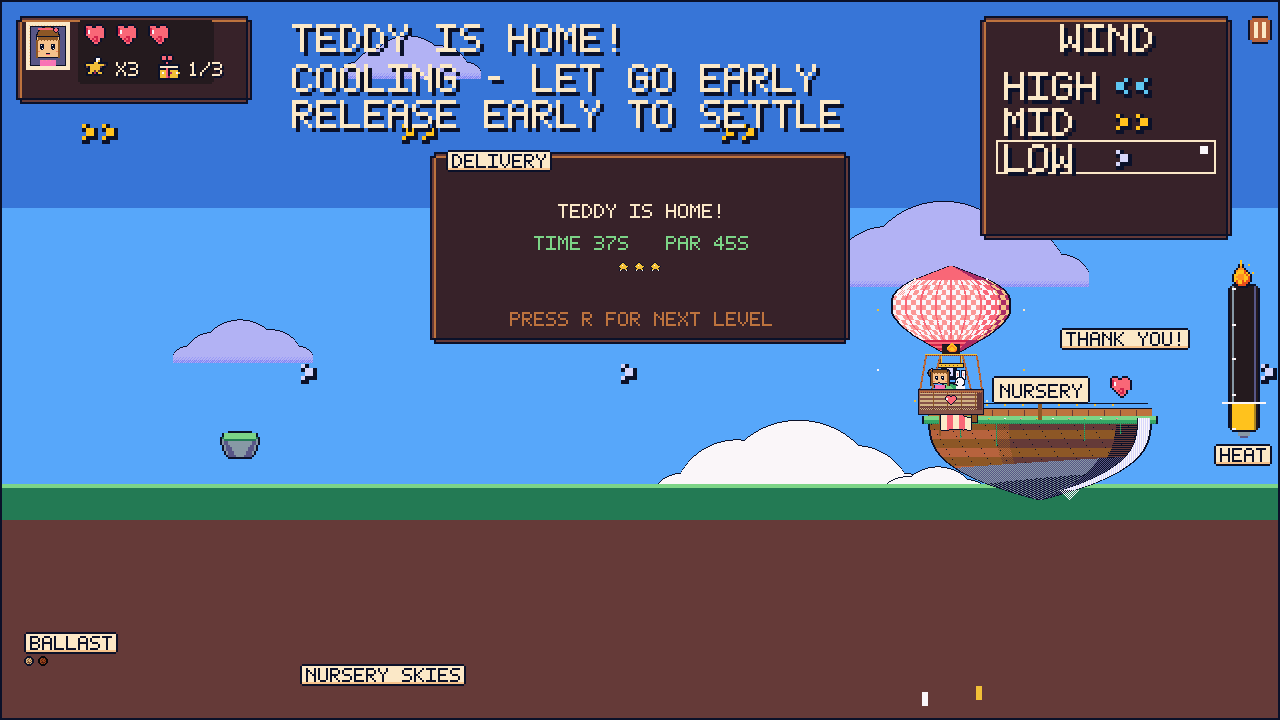
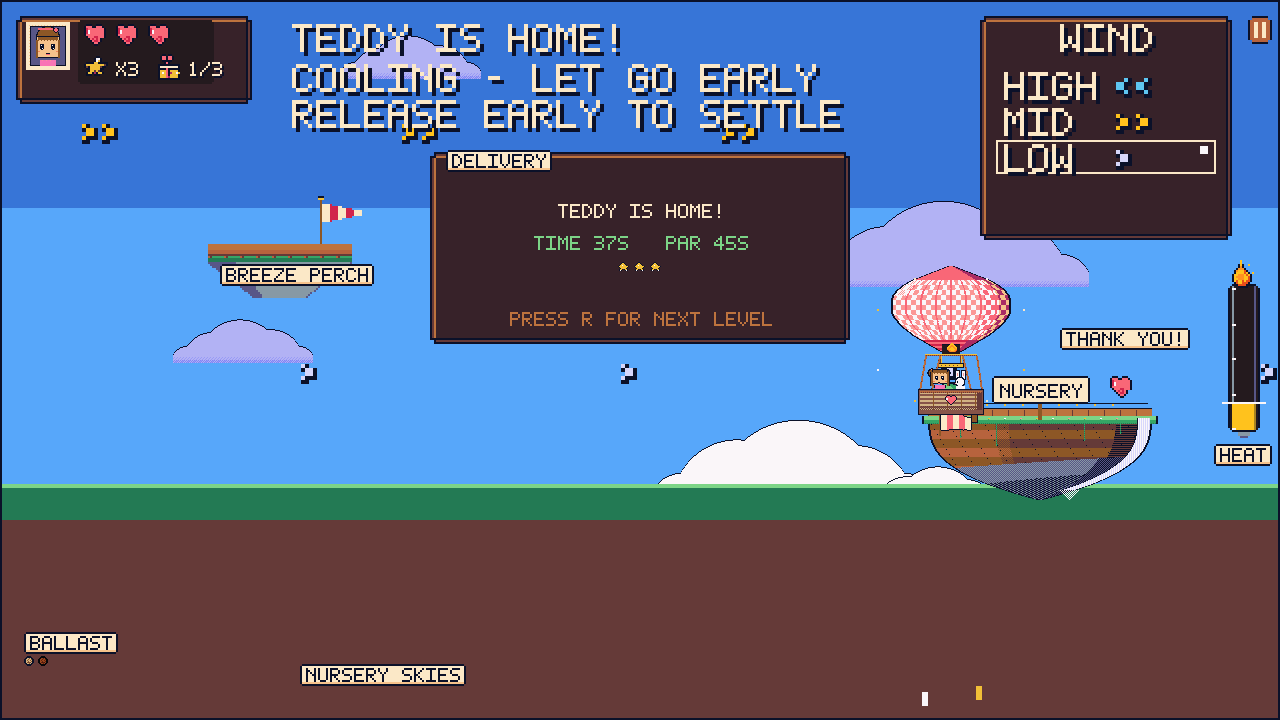
feat(nursery): teach wind with a perch and prove active-hazard routes
Initiative: 20 (Nursery tutorial route)

Verified: npm run check; 73 unit tests, 88 Playwright tests. Reviewed docs/screenshots/20-nursery-perch-*.png and 20-nursery-home-*.png. Recorded legal inputs replay to identical hashes with normal collisions on all three courses; nursery retains three hearts. Human feel report remains tracked under I17.

Changed region(s): [[0.1562, 0.3361, 0.3125, 0.4278], [0.1562, 0.5806, 0.2188, 0.6417], [0.25, 0.275, 0.2812, 0.3056]]

diff --git a/tests/tutorial.spec.js b/tests/tutorial.spec.js
@@ -1,0 +1,15 @@
+const {test,expect}=require('@playwright/test');
+const path=require('path');
+const {bootGame,act,reviewShot,SHOTS_DIR,watchForErrors}=require('./support');
+test('Nursery Skies teaches with a wind perch and is delivered with active hazards',async({page},info)=>{
+ const errors=watchForErrors(page);await bootGame(page);await act(page,'settings=motion=1');await act(page,'reset=6060');
+ expect((await page.evaluate(()=>window.__GAME.state())).platforms).toBe(1);
+ await act(page,'step=1');await page.evaluate(()=>window.__GAME.raw('warp','185=170'));
+ await act(page,'screen=world');await expect.poll(()=>act(page,'screen')).toBe('world');
+ await reviewShot(page,{path:path.join(SHOTS_DIR,`20-nursery-perch-${info.project.name}.png`)});
+ await act(page,'reset=6060');
+ expect(await page.evaluate(()=>window.__GAME.raw('fly','120'))).toBe('ok:delivered');
+ const state=await page.evaluate(()=>window.__GAME.state());expect(state.delivered).toBe(true);expect(state.hearts).toBe(3);expect(state.cargoStatus).toBe('delivered');
+ await act(page,'screen=world');await expect.poll(()=>act(page,'screen')).toBe('world');
+ await reviewShot(page,{path:path.join(SHOTS_DIR,`20-nursery-home-${info.project.name}.png`)});expect(errors).toEqual([]);
+});

diff --git a/Balloonatic/Balloonatic.Core/Autopilot.cs b/Balloonatic/Balloonatic.Core/Autopilot.cs
@@ -108,7 +108,7 @@ namespace Balloonatic.Core
         /// the soft-landing rule, and arriving soft is the point — one bag stays aboard, because a
         /// lighter balloon has a gentler final descent. Every loadout remains landable.
         /// </summary>
-        public static bool Deliver(SimState state, LevelDef level, float maxSeconds)
+        public static bool Deliver(SimState state, LevelDef level, float maxSeconds, bool hazards = false, Action<SimInput>? record = null)
         {
             float cruise = BandCenter(CarryingBand(level));
             float lowest = Math.Max(BandCenter(level.Bands[0]), SimTuning.DeckTopAltitude + LowestFloor);
@@ -127,7 +127,7 @@ namespace Balloonatic.Core
             {
                 if (decideIn <= 0)
                 {
-                    chosen = BestIdea(state, level, ideas);
+                    chosen = BestIdea(state, level, ideas, hazards);
                     decideIn = ReplanSeconds * Sim.StepHz;
                 }
                 decideIn--;
@@ -144,7 +144,8 @@ namespace Balloonatic.Core
                     braked = true;
                 }
 
-                SimRules.Step(state, input, level, hazards: false);   // the ghost proves the wind line
+                record?.Invoke(input);
+                SimRules.Step(state, input, level, hazards);
                 if (state.Delivered)
                     return true;
             }
@@ -158,7 +159,7 @@ namespace Balloonatic.Core
         /// everything else; nothing here reads anything but state and level, so the chosen flight path
         /// is reproducible to the step.
         /// </summary>
-        static float BestIdea(SimState state, LevelDef level, float[] ideas)
+        static float BestIdea(SimState state, LevelDef level, float[] ideas, bool hazards)
         {
             float bestScore = float.MinValue;
             float bestAlt = ideas[0];
@@ -167,8 +168,9 @@ namespace Balloonatic.Core
             {
                 SimState sim = state.Clone();
                 for (int k = 0; k < horizon && !sim.Delivered; k++)
-                    SimRules.Step(sim, TowardAltitude(sim, alt), level, hazards: false);
-                float score = ScoreLanding(sim, level);
+                    SimRules.Step(sim, TowardAltitude(sim, alt), level, hazards);
+                float score = ScoreLanding(sim, level) - (state.Hearts - sim.Hearts) * 2000f;
+                if (sim.Complete && !sim.Delivered) score -= 20000f;
                 if (score > bestScore)
                 {
                     bestScore = score;

diff --git a/Balloonatic/Balloonatic.Core/Level.cs b/Balloonatic/Balloonatic.Core/Level.cs
@@ -3,6 +3,7 @@ using System.Globalization;
 
 namespace Balloonatic.Core
 {
+    public readonly record struct RestDeck(float X, float Altitude, float HalfWidth);
     /// <summary>
     /// One altitude band of wind: the only steering the player has. Bands are authored per level, so a
     /// level's puzzle is "which heights carry me where".
@@ -209,14 +210,16 @@ namespace Balloonatic.Core
         public string CarryObjective { get; }
         public string DeliveredMessage { get; }
         public string RequestLabel { get; }
+        public RestDeck[] Platforms { get; }
 
         public LevelDef(string id, string name, float worldHeight, WindBand[] bands, GustZone[] gusts, float courseLength, int parSeconds,
-                        RockDef[]? rocks = null, BirdDef[]? birds = null, StormZone[]? storms = null, CargoKind package = CargoKind.Teddy)
+                        RockDef[]? rocks = null, BirdDef[]? birds = null, StormZone[]? storms = null, CargoKind package = CargoKind.Teddy, RestDeck[]? platforms = null)
         {
             Id = id;
             Name = name;
             NameUpper = name.ToUpperInvariant();
             Package = package;
+            Platforms = platforms ?? Array.Empty<RestDeck>();
             PackageName = package == CargoKind.Bottle ? "BOTTLE" : package == CargoKind.Letter ? "LETTER" : "TEDDY";
             DestinationName = id == "nursery-skies" ? "NURSERY" : id == "winding-trail" ? "TOY ROOM" : "COTTAGE";
             CollectObjective = "COLLECT THE " + PackageName;
@@ -335,8 +338,8 @@ namespace Balloonatic.Core
                 {
                     new RockDef(300f, 320f, 8f, 240, 0),
                     new RockDef(540f, 340f, 8f, 300, 90),
-                    new RockDef(200f, 20f, 4f, 240, 40),
-                }),
+                    new RockDef(200f, 345f, 4f, 240, 40),
+                }, platforms: new[] { new RestDeck(220f, 120f, 36f) }),
 
             // Toy Isles, a zigzag: the middle air sprints, the upper air rebukes you, and the low air —
             // the air a landing is made from — carries gently home. The bird works the mid sprint and

diff --git a/Balloonatic/Balloonatic.Core/TestHarness.cs b/Balloonatic/Balloonatic.Core/TestHarness.cs
@@ -202,12 +202,13 @@ namespace Balloonatic.Core
                 }
 
                 case "deliver":
+                case "fly":
                 {
                     int seconds = 120;
                     if (a.Length > 0 && (!int.TryParse(a, NumberStyles.Integer, CultureInfo.InvariantCulture, out seconds) || seconds < 1))
                         return "error:bad-arg:deliver";
                     seconds = Math.Min(seconds, 300);
-                    bool delivered = Autopilot.Deliver(_state, LevelCatalog.Get(_state.LevelId), seconds);
+                    bool delivered = Autopilot.Deliver(_state, LevelCatalog.Get(_state.LevelId), seconds, hazards: name == "fly");
                     return delivered ? "ok:delivered" : "error:not-delivered";
                 }
 
@@ -416,6 +417,7 @@ namespace Balloonatic.Core
               .Append("\"cargoStatus\":\"").Append(_state.CargoStatus).Append("\",")
               .Append("\"pickupTick\":").Append(_state.PickupTick).Append(',')
               .Append("\"recipient\":\"").Append(level.DestinationName).Append("\",")
+              .Append("\"platforms\":").Append(level.Platforms.Length).Append(',')
               .Append("\"windAssist\":").Append(_state.WindAssist ? "true" : "false").Append(',')
               .Append("\"settings\":\"").Append(AppSettings.Describe()).Append("\",")
               .Append("\"hash\":\"").Append(SimRules.HashHex(_state)).Append('"')

diff --git a/Balloonatic/Balloonatic.Tests/TutorialTests.cs b/Balloonatic/Balloonatic.Tests/TutorialTests.cs
@@ -1,0 +1,30 @@
+using System.Collections.Generic;
+using Balloonatic.Core;
+using FluentAssertions;
+using Xunit;
+namespace Balloonatic.Tests;
+public class TutorialTests
+{
+    [Theory]
+    [InlineData("nursery-skies")][InlineData("winding-trail")][InlineData("night-crossing")]
+    public void A_recorded_legal_flight_replays_with_normal_collisions(string id)
+    {
+        LevelDef level=LevelCatalog.Get(id);
+        SimState flown=new(){Seed=0x6060,LevelId=id};
+        SimState replay=flown.Clone();
+        List<SimInput> inputs=new();
+        Autopilot.Deliver(flown,level,120,hazards:true,record:inputs.Add).Should().BeTrue(id);
+        foreach(SimInput input in inputs)SimRules.Step(replay,input,level);
+        replay.Delivered.Should().BeTrue();replay.Hearts.Should().BeGreaterThan(0);
+        SimRules.HashHex(replay).Should().Be(SimRules.HashHex(flown));
+        if(id=="nursery-skies")replay.Hearts.Should().Be(3,"the teaching route should be safe");
+    }
+
+    [Fact]
+    public void The_breeze_perch_supports_a_soft_landing_without_completing_delivery()
+    {
+        SimState s=new(){Seed=1234,X=220,Altitude=124,VelocityY=-10,Cargo=CargoKind.Teddy};
+        for(int i=0;i<30;i++)SimRules.Step(s,SimInput.None);
+        s.Altitude.Should().Be(120);s.Complete.Should().BeFalse();s.Cargo.Should().Be(CargoKind.Teddy);
+    }
+}

diff --git a/Balloonatic/Balloonatic.Game/Screens/WorldScreen.cs b/Balloonatic/Balloonatic.Game/Screens/WorldScreen.cs
@@ -311,6 +311,15 @@ namespace Balloonatic.Screens
 
             DrawIsland(canvas, level, state, camX, groundY, worldX: 0, name: "HOME", launch: true);
             DrawIsland(canvas, level, state, camX, groundY, worldX: (int)level.CourseLength, name: level.DestinationName, launch: false);
+            foreach (RestDeck deck in level.Platforms)
+            {
+                float x = ScreenX(deck.X, camX), y = ScreenY(deck.Altitude, camAlt);
+                Kit.Island(canvas, x - deck.HalfWidth, y + 4, (int)deck.HalfWidth * 2, 24);
+                Kit.Platform(canvas, new Rectangle(Round(x - deck.HalfWidth), Round(y), (int)deck.HalfWidth * 2, 5));
+                WindBand wind = level.BandAt(deck.Altitude + 1f);
+                Kit.Windsock(canvas, x + 20, y, wind.Direction, wind.Strength);
+                Kit.Tag(canvas, Round(x)-30, Round(y)+10, "BREEZE PERCH");
+            }
         }
 
         static void DrawIsland(

diff --git a/Balloonatic/Balloonatic.Core/SimState.cs b/Balloonatic/Balloonatic.Core/SimState.cs
@@ -282,6 +282,20 @@ namespace Balloonatic.Core
                 }
             }
 
+            foreach (RestDeck deck in level.Platforms)
+            {
+                if (state.VelocityY >= 0f || prevAltitude < deck.Altitude || state.Altitude > deck.Altitude
+                    || Math.Abs(state.X - deck.X) > deck.HalfWidth) continue;
+                state.Altitude = deck.Altitude;
+                if (-state.VelocityY <= SimTuning.SoftLandingVy) state.VelocityY = 0f;
+                else
+                {
+                    state.VelocityY = -state.VelocityY * SimTuning.BounceRestitution;
+                    state.Bounces++; state.BounceTick = state.Tick;
+                }
+                break;
+            }
+
             if (state.Altitude <= SimTuning.GroundAltitude)
             {
                 // On the ground the balloon sits: descending into the ground stops it, and the landing

diff --git a/Balloonatic/Balloonatic.Tests/WindLayerTests.cs b/Balloonatic/Balloonatic.Tests/WindLayerTests.cs
@@ -17,7 +17,7 @@ namespace Balloonatic.Tests
         static void HoldAt(TestHarness h, LevelDef level, float target, int steps)
         {
             for (int i = 0; i < steps; i++)
-                SimRules.Step(h.State, Autopilot.TowardAltitude(h.State, target), level);
+                SimRules.Step(h.State, Autopilot.TowardAltitude(h.State, target), level, hazards: false);
         }
 
         [Fact]
@@ -46,6 +46,7 @@ namespace Balloonatic.Tests
 
             HoldAt(h, level, 190f, 300);     // drift out with the middle band
             float drifting = F(h, "velocityX");
+            h.State.X = 400f; // isolate band reversal from the off-course recovery boundary
 
             HoldAt(h, level, 330f, 1020);    // climb into the top band, - direction (the hold is gentle)
 

diff --git a/docs/BASELINE.md b/docs/BASELINE.md
@@ -315,3 +315,14 @@ Steven flew the desktop head and reported three things; each became a rule, not 
   transferred payload **3.13 MB over 76 requests** (audio kit included, budget 8 MB); average rAF
   frame time in live heated play **16.67 ms** with p95 16.80 ms — a steady 60 fps in the Chromium
   tab. `tests/budget.spec.js` logs the first two and asserts all three every suite run.
+
+## Current recovery and route contracts (I17–I20, October 17)
+
+Every ballast loadout now cools into a landable descent (gravity 84, each bag 8, landing limit 24 px/s).
+Travel beyond a course margin returns the craft to a safe approach without spending health or restoring
+bags. Cargo goes from waiting to carried to delivered and is consumed only at the matching recipient.
+`state()` mirrors cargo, pickup tick, recipient, recovery count, wind band, heat trend and approach.
+`raw('fly', '120')` flies with normal rock/bird/storm collisions. `deliver()` retains the original
+wind-only diagnostic. Core tests record actual heat/ballast inputs and replay them with normal
+collisions, requiring matching full state hashes on every course. Nursery's active route loses no hearts.
+The measured human feel gate remains open until Steven reports on the desktop build.

diff --git a/PLAN.md b/PLAN.md
@@ -54,8 +54,12 @@ complete; implementation is proceeding in the order below.
   Verified: 69 unit tests, 86 browser tests; reviewed `19-cargo-pickup-*` and `19-cargo-home-*`.
   Empty/wrong parcels cannot complete a delivery; pickup/delivery state is hashed and replayed.
   The existing parcel icon and recipient marker will receive their final art in I22.
-- [ ] **I20 — Nursery tutorial route** (~90m)
+- [x] **I20 — Nursery tutorial route** (~90m)
   Safe teaching geometry, useful altitude choice, readable destination; legal replay with hazards on.
+  Verified: 73 unit tests, 88 browser tests; reviewed `20-nursery-perch-*` and `20-nursery-home-*`.
+  A landing perch marks the faster breeze; low teaching corridor is clear. Recorded legal input
+  replays match full state hashes on all three courses with collisions enabled; nursery retains 3 hearts.
+  Human feel approval is still tracked under I17, independently of these route proofs.
 - [ ] **I21 — Charlotte and craft** (~90m)
   Reference-led rounded balloon, readable Charlotte/bunny, portrait and minimal reactions.
 - [ ] **I22 — Nursery environment assets** (~90m)
